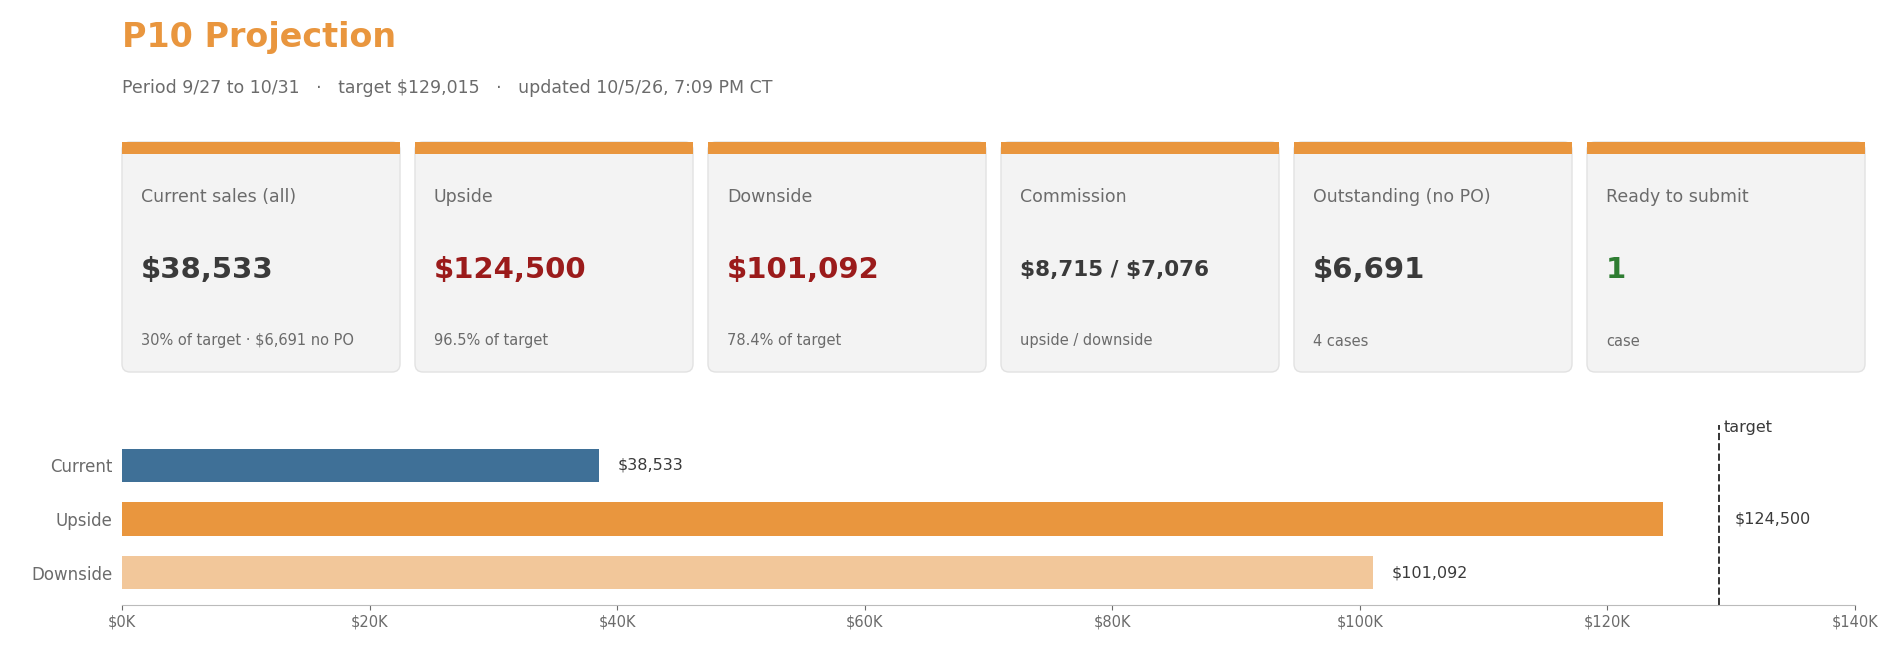
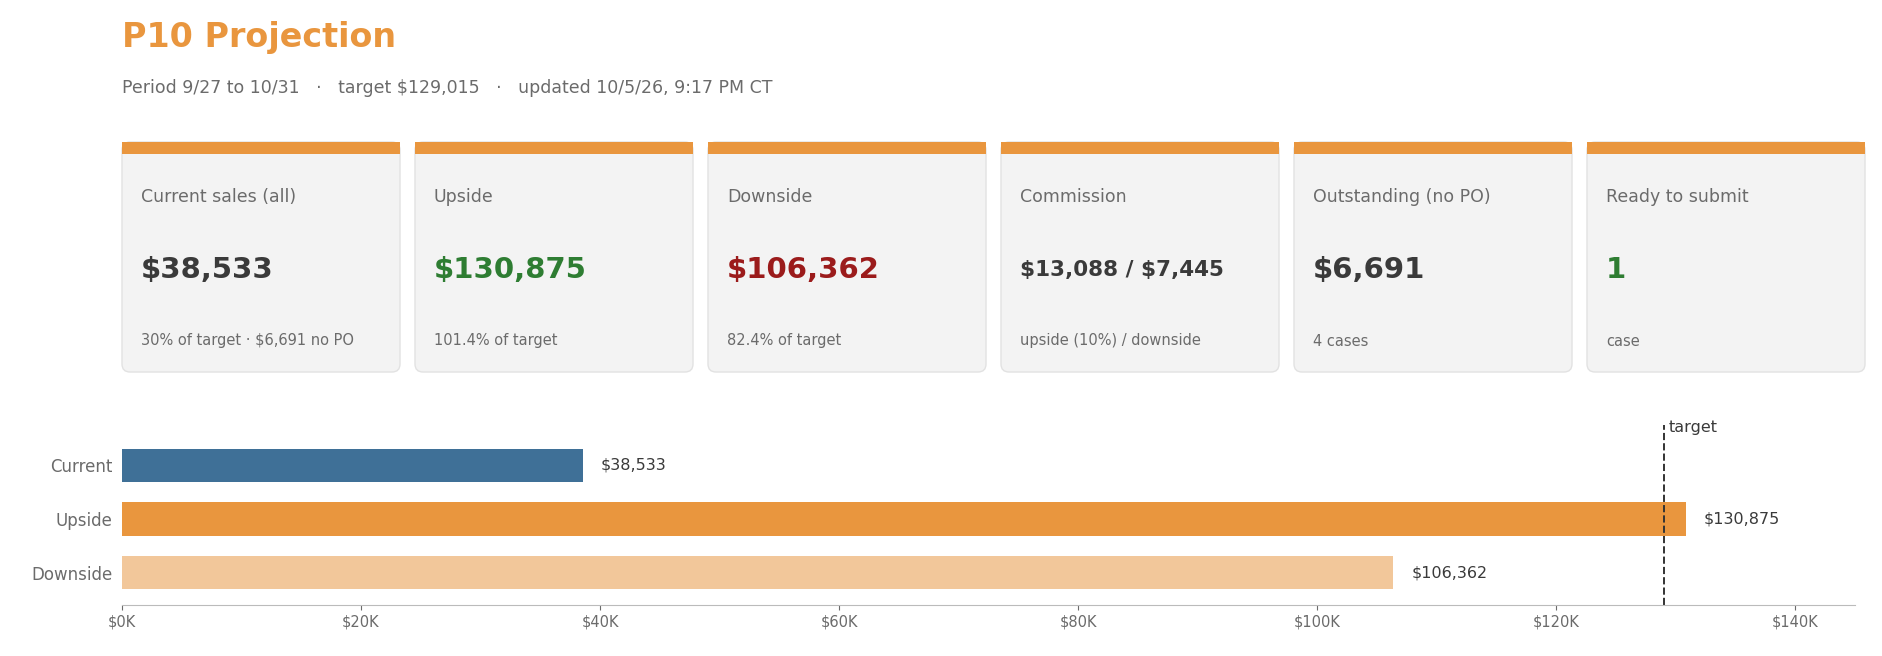
Projection: one more R.C. order (10/30, wk of 11/2) in P10 - upside $130,875 (101.4%)

diff --git a/README.md b/README.md
@@ -1,6 +1,6 @@
 ![P10 dashboard](view/dashboard.png)
 
-**[⬇ Download the Excel file](https://github.com/ajpeterson113/Graft-Tracker/raw/main/Graft_Tracker_BIOT_Chicago_West.xlsx)**  ·  **[⬇ Patient list](https://github.com/ajpeterson113/Graft-Tracker/raw/main/Chi_West_Patient_List.xlsx)**  ·  updated 10/5/26, 8:49 PM CT · [👥 Patients dashboard](Patients.md)
+**[⬇ Download the Excel file](https://github.com/ajpeterson113/Graft-Tracker/raw/main/Graft_Tracker_BIOT_Chicago_West.xlsx)**  ·  **[⬇ Patient list](https://github.com/ajpeterson113/Graft-Tracker/raw/main/Chi_West_Patient_List.xlsx)**  ·  updated 10/5/26, 9:17 PM CT · [👥 Patients dashboard](Patients.md)
 
 ## October
 
@@ -97,15 +97,15 @@
 |  | Upside | Downside |
 | --- | ---: | ---: |
 | Current October sales | $38,533.20 | $38,533.20 |
-| + Projected Grafix, net of WCC stock | $71,715.00 | $54,652.50 |
+| + Projected Grafix, net of WCC stock | $78,090.00 | $59,922.50 |
 | + Upcoming Stravix | $4,938.00 | $4,938.00 |
 | + Potential new starts (upside only) | $0.00 | $0.00 |
 | + OASIS reorders (estimated) | $9,314.23 | $2,967.95 |
-| **Projected P10 total** | **$124,500.43** | **$101,091.65** |
+| **Projected P10 total** | **$130,875.43** | **$106,361.65** |
 | P10 target | $129,015.00 | $129,015.00 |
-| % of target | 96.5% | 78.4% |
-| Gap to target | $4,514.57 | $27,923.35 |
-| **Projected commission** | **$8,715.03** | **$7,076.42** |
+| % of target | 101.4% | 82.4% |
+| Gap to target | $0.00 (over by $1,860.43) | $22,653.35 |
+| **Projected commission** | **$13,087.54** (10%) | **$7,445.32** |
 
 Projected visits start 10/5; sold amounts come from the October tab.
 
@@ -114,7 +114,7 @@ Projected visits start 10/5; sold amounts come from the October tab.
 | Account | Sold | Projected upside | Projected downside | P10 upside | P10 downside |
 | --- | ---: | ---: | ---: | ---: | ---: |
 | Good Sam | $13,341.75 | $33,555.00 | $24,722.50 | **$46,896.75** | **$38,064.25** |
-| Central DuPage | $6,375.00 | $25,500.00 | $21,080.00 | **$31,875.00** | **$27,455.00** |
+| Central DuPage | $6,375.00 | $31,875.00 | $26,350.00 | **$38,250.00** | **$32,725.00** |
 | Alexian WCC | $4,440.00 | $17,037.73 | $10,121.45 | **$21,477.73** | **$14,561.45** |
 | St. Alexius | $5,431.20 | $4,938.00 | $4,938.00 | **$10,369.20** | **$10,369.20** |
 | NW Suburban F&A | $1,898.25 | $4,366.50 | $1,696.50 | **$6,264.75** | **$3,594.75** |
@@ -124,7 +124,7 @@ Projected visits start 10/5; sold amounts come from the October tab.
 | Alexian Ambulatory | $0.00 | $0.00 | $0.00 | **$0.00** | **$0.00** |
 | Sherman | $0.00 | $0.00 | $0.00 | **$0.00** | **$0.00** |
 | GlenOaks | $0.00 | $0.00 | $0.00 | **$0.00** | **$0.00** |
-| **Total** | **$38,533.20** | **$85,967.23** | **$62,558.45** | **$124,500.43** | **$101,091.65** |
+| **Total** | **$38,533.20** | **$92,342.23** | **$67,828.45** | **$130,875.43** | **$106,361.65** |
 
 <details><summary><b>Projection by patient</b></summary>
 
@@ -147,7 +147,7 @@ Projected visits start 10/5; sold amounts come from the October tab.
 | Alexian WCC | Adelstein | D.C. | 1× 16mm | Weekly | 5 | 4 | $1,440.00 | 16mm × 1 | $360.00 |
 | Alexian WCC | Hussain | A.P. | 1× 16mm | Weekly | 3 | 4 | $1,440.00 | same | $1,440.00 |
 | Alexian WCC | Ramani | V.D. | 1× 16mm | Weekly | 6 | 4 | $1,440.00 | 16mm × 1 | $360.00 |
-| Central DuPage | Luetkehans | R.C. | 3× 5x5 | Weekly | 1 | 4 | $25,500.00 | 2x 5x5 + 1x 3x4 × 4 | $21,080.00 |
+| Central DuPage | Luetkehans | R.C. | 3× 5x5 | Weekly + 10/30 order (wk of 11/2) | 1 | 5 | $31,875.00 | 2x 5x5 + 1x 3x4 × 5 | $26,350.00 |
 | Suburban F&A | Grinberg | Y.L. | 1× 16mm | Weekly · on hold, back 10/13 | 1 | 3 | $570.00 | stays on hold | $0.00 |
 | NW Suburban F&A | Goldkind | P.S. | 1× 16mm | Weekly | 1 | 3 | $570.00 | same | $570.00 |
 
